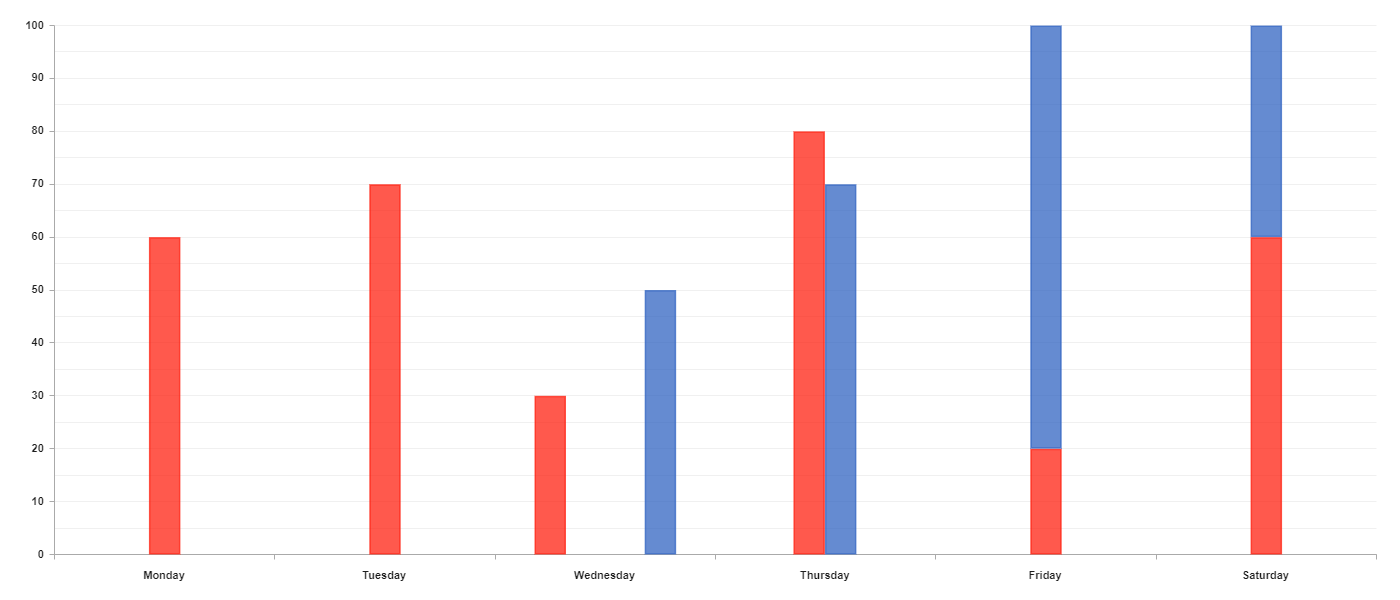
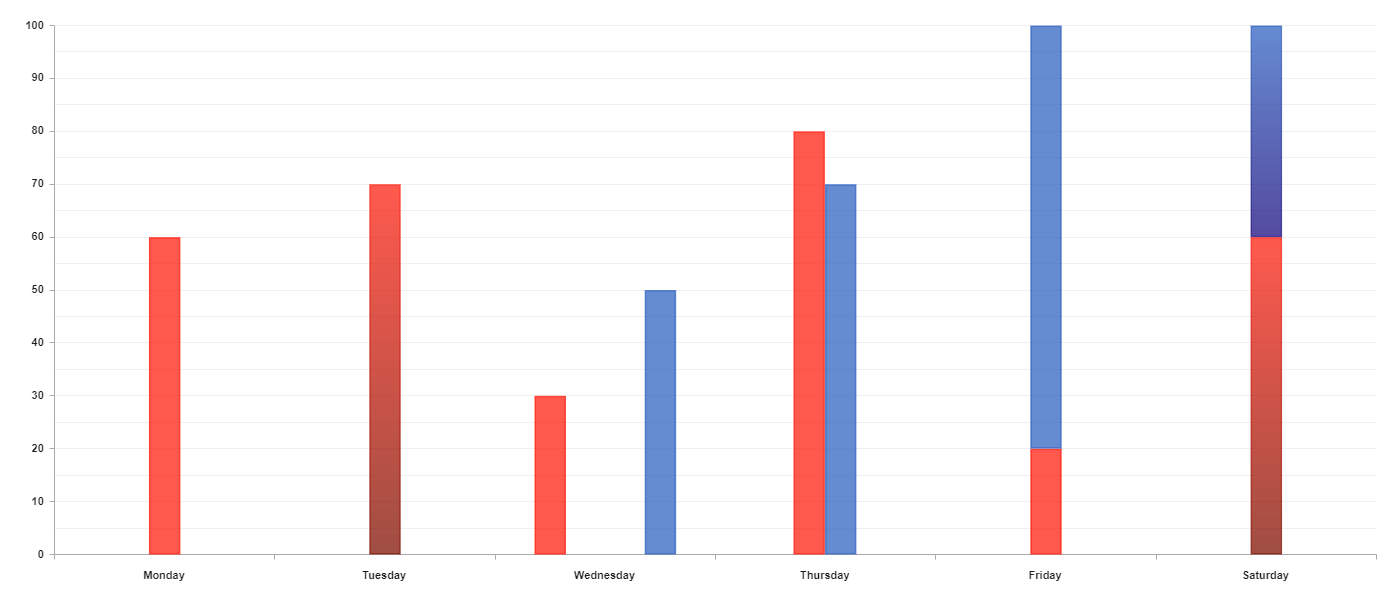
documentation - column chart

Changed region(s): [[0.2457, 0.45, 0.3071, 0.93], [0.8907, 0.51, 0.9214, 0.93], [0.8907, 0.18, 0.9214, 0.42]]

diff --git a/src/charts/column-chart.ts b/src/charts/column-chart.ts
@@ -4,7 +4,7 @@ import Rect from "../shapes/rect";
 import HorizontalGrid from "../grids/horizontal-grid";
 import getColumnSize from "../functions/column-size";
 import { COLUMN_CHART } from "../types/chart-names";
-import { createLineGradient } from "../functions/gradient";
+import { createLineGradientVert } from "../functions/gradient";
 
 class ColumnChart extends Chart implements ColumnChartType {
 
@@ -18,15 +18,15 @@ class ColumnChart extends Chart implements ColumnChartType {
     correspondToSecondary: string;
     identifier = COLUMN_CHART;
 
-    constructor({values, correspondTo, correspondToSecondary}: ColumnChartInputType) {
-        super();
+    constructor({values, correspondTo, correspondToSecondary, factor}: ColumnChartInputType) {
+        super(factor);
         this.content = values || [];
         this.correspondTo = correspondTo || '';
         this.correspondToSecondary = correspondToSecondary || '';
     }
 
     createGradient(x: number, xE: number, colors: string[]) {
-        return createLineGradient(<CanvasRenderingContext2D>this.ctx, x, xE, colors);
+        return createLineGradientVert(<CanvasRenderingContext2D>this.ctx, x, xE, colors);
     }
     
     drawChart() {
@@ -82,7 +82,7 @@ class ColumnChart extends Chart implements ColumnChartType {
                     let itemH = height - h - (height - y0position) - lW;
                     let startH = h - minusStart;
                     let color = this.getColor(<string | string[]>item.color, startH, itemH);
-
+                    console.log(color)
                     new Rect(ctx, offsetX + step / 2 - itemSize / 2, startH, itemSize, itemH, {color, lineWidth}).draw();
                 } else if (item.type === 'group') {
                     let values: number[] = <number[]>item.values;

diff --git a/src/types/charts.types.ts b/src/types/charts.types.ts
@@ -123,6 +123,7 @@ export interface BubleChartType {
 
 export interface BubleChartInputType {
     values?: CoordinateValuesType[];
+    factor?: ChartFactor
 }
 
 export interface ChartOptions {
@@ -137,6 +138,7 @@ export interface SameDirectionRoundChartInputType {
     labels?: StringLabel;
     canvas?: HTMLCanvasElement;
     itemMargin?: number;
+    factor?: ChartFactor;
 }
 
 export interface RoundChartInputType {
@@ -149,10 +151,12 @@ export interface RoundChartInputType {
     canvas?: HTMLCanvasElement;
     centerRadius?: number;
     changingStepSize?: number;
+    factor?: ChartFactor;
 }
 
 export interface RangeChartInputType {
     values?: RangeValueType[];
+    factor?: ChartFactor;
 }
 
 export interface ChartInput {
@@ -178,10 +182,12 @@ export interface ColumnChartInputType {
     values?: GroupItemType[];
     correspondTo?: string;
     correspondToSecondary?: string;
+    factor?: ChartFactor;
 }
 
 export interface RowChartInputType {
     values?: GroupItemType[];
     correspondTo?: string;
     correspondToSecondary?: string;
+    factor?: ChartFactor;
 }

diff --git a/src/charts/line-chart.ts b/src/charts/line-chart.ts
@@ -4,6 +4,7 @@ import Circle from "../shapes/circle";
 import Line from "../shapes/line";
 import HorizontalGrid from "../grids/horizontal-grid";
 import { LINE_CHART } from "../types/chart-names";
+import { createLineGradientVert } from "../functions/gradient";
 
 class LineChart extends Chart implements LineCharType {
 
@@ -27,16 +28,9 @@ class LineChart extends Chart implements LineCharType {
     }
 
     createGradient(x: number, xE: number, colors: string[]) {
-        const { ctx } = this;
-        let grd = (<CanvasRenderingContext2D>ctx).createLinearGradient(0, x, 0, x + xE);
-        let step = 1 / (colors.length - 1);
-        let cStep = 0;
-        for(let c of colors) {
-            grd.addColorStop(cStep, c);
-            cStep += step;
-        }
-        return grd;
+        return createLineGradientVert(<CanvasRenderingContext2D>this.ctx, x, xE, colors);
     }
+
     drawChart() {
 
         if(this.parent && this.ctx) {

diff --git a/src/charts/round-chart.ts b/src/charts/round-chart.ts
@@ -32,8 +32,8 @@ class RoundChart extends Chart implements RoundChartType {
         }
         return grd;
     }
-    constructor({centerValue, values, changingSize, blankCenter, itemsMargin, labels, canvas, changingStepSize, centerRadius}: RoundChartInputType) {
-        super();
+    constructor({centerValue, values, changingSize, blankCenter, itemsMargin, labels, canvas, changingStepSize, centerRadius, factor}: RoundChartInputType) {
+        super(factor);
         if(canvas) {
             this.parent = new NoGrid(canvas);
             this.ctx = this.parent.ctx;

diff --git a/src/charts/same-direction-round-chart.ts b/src/charts/same-direction-round-chart.ts
@@ -14,8 +14,8 @@ class SameDirectionRoundChart extends Chart implements SameDirectionRoundChartTy
     itemMargin: number;
     identifier = SAME_DIRECTION_ROUND_CHART;
 
-    constructor({labels, values, centerValue, canvas, itemMargin}: SameDirectionRoundChartInputType = {}) {
-        super();
+    constructor({labels, values, centerValue, canvas, itemMargin, factor}: SameDirectionRoundChartInputType = {}) {
+        super(factor);
         if (canvas) {
             this.parent = new NoGrid(canvas);
             this.ctx = this.parent.ctx;

diff --git a/src/charts/row-chart.ts b/src/charts/row-chart.ts
@@ -20,8 +20,8 @@ class RowChart extends Chart implements RowChartType {
     correspondTo: string;
     correspondToSecondary: string;
 
-    constructor({values, correspondTo, correspondToSecondary}: RowChartInputType) {
-        super();
+    constructor({values, correspondTo, correspondToSecondary, factor}: RowChartInputType) {
+        super(factor);
         this.content = values || [];
         this.correspondTo = correspondTo || '';
         this.correspondToSecondary = correspondToSecondary || '';

diff --git a/src/functions/gradient.ts b/src/functions/gradient.ts
@@ -8,3 +8,14 @@ export const createLineGradient = (ctx: CanvasRenderingContext2D, x: number, xE:
     }
     return grd;
 }
+
+export const createLineGradientVert = (ctx: CanvasRenderingContext2D ,x: number, xE: number, colors: string[]) => {
+    let grd = (<CanvasRenderingContext2D>ctx).createLinearGradient(0, x, 0, x + xE);
+    let step = 1 / (colors.length - 1);
+    let cStep = 0;
+    for(let c of colors) {
+        grd.addColorStop(cStep, c);
+        cStep += step;
+    }
+    return grd;
+}

diff --git a/index.ts b/index.ts
@@ -28,7 +28,7 @@ let chart = new ColumnChart({
         values: 60
     },{
         type: 'simple',
-        color: '#FF2212',
+        color: ['#FF2212','#801204'],
         values: 70
     },{
         type: 'group',
@@ -45,8 +45,8 @@ let chart = new ColumnChart({
         values: [20, 80],
     },{
         type: 'stacked-group',
-        color: ['#FF2212','#3164C2'],
-        values: [60, 40],
+        color: [['#FF2212','#801204'],['#3164C2','#1B0E80']],
+        values: [60, 40]
     }]
 })
 

diff --git a/src/charts/range-chart.ts b/src/charts/range-chart.ts
@@ -17,8 +17,8 @@ class RangeChart extends Chart implements RangeChartType {
     reversedValues = false;
     identifier = RANGE_CHART;
 
-    constructor({values}: RangeChartInputType = {}) {
-        super();
+    constructor({values, factor}: RangeChartInputType = {}) {
+        super(factor);
         this.content = values || [];
     }
     createGradient(x: number, xE: number, colors: string[]) {

diff --git a/src/charts/buble-chart.ts b/src/charts/buble-chart.ts
@@ -20,8 +20,8 @@ class BubleChart extends Chart implements BubleChartType {
     reversedValuesX: boolean = false;
     reversedValuesY: boolean = false;
     identifier = BUBLE_CHART;
-    constructor({values}: BubleChartInputType) {
-        super();
+    constructor({values, factor}: BubleChartInputType) {
+        super(factor);
         this.content = values || [];
     }
 

diff --git a/README.md b/README.md
@@ -445,9 +445,70 @@ let chart = new LineChart({
 
 ### ColumnChart
 
+* **values** - Each object in array is single item or item group.
+    **Item object:**
+    1. **type:**
+        * 'simpe' - single column. 
+        * 'group' - items group placed next to each other.
+        * 'stacked-group' - items group put on each other
+    2. **color** - If its simple item you can use string or string array. If you use string it take its value as color. If you pass string array it will create gradient from this colors.
+    If its group or stacked-group you should use array string of colors same as in simple item. Each item color will be aply to the value with same iterator.
+    3. **values** - If you are using simle item you shuold use number. Otherwise you should use array of numbers.
+    4. **margin** - You can only use it if item's type is group. If you don't want to have margin between items in group use **margin: 'collapse'**. Otherwise leave it blank.
+    5. **direction** - You can only use it if item's type is stacked-group. You can't use negative numbers in stacked-group but if you want to make them negative use **direction: 'reverse'**.
+* **correspondTo** - By this you can choose to witch label it will be corresponding to.
+* **correspondToSecondary** - By this you can choose witch label will be signature label.
+* **factor** - [more about facotrs]()
+
 **Code**
 
+```typescript
+ColumnChart({
+    values?: [{
+        type: string,
+        color: string | string[] | [string | string[]],
+        values: number | number[],
+        margin?: string
+        direction?: string
+    }],
+    correspondTo?: string,
+    correspondToSecondary?: string,
+    factor?: ChartFactor
+});
+
+let chart = new ColumnChart({
+    values: [{
+        type: 'simple',
+        color: '#FF2212',
+        values: 60
+    },{
+        type: 'simple',
+        color: ['red','black'],
+        values: 70
+    },{
+        type: 'group',
+        color: ['#FF2212','#3164C2'],
+        values: [30, 50]
+    },{
+        type: 'group',
+        color: ['#FF2212','#3164C2'],
+        values: [80, 70],
+        margin: 'collapse'
+    },{
+        type: 'stacked-group',
+        color: ['#FF2212','#3164C2'],
+        values: [20, 80],
+    },{
+        type: 'stacked-group',
+        color: [['#FF2212','black'],['#3164C2','black']],
+        values: [60, 40]
+    }]
+});
+```
+
 **Output**
+
+![ColumnChart](https://github.com/SMasiu/GraphJS/blob/master/img/column-chart.png?raw=true)
 
 ### RowChart
 
